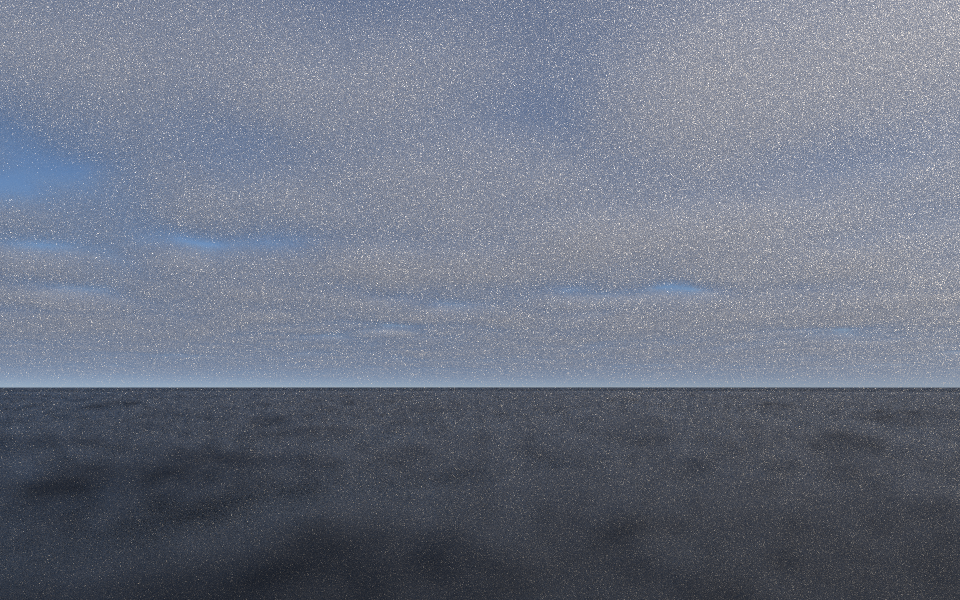
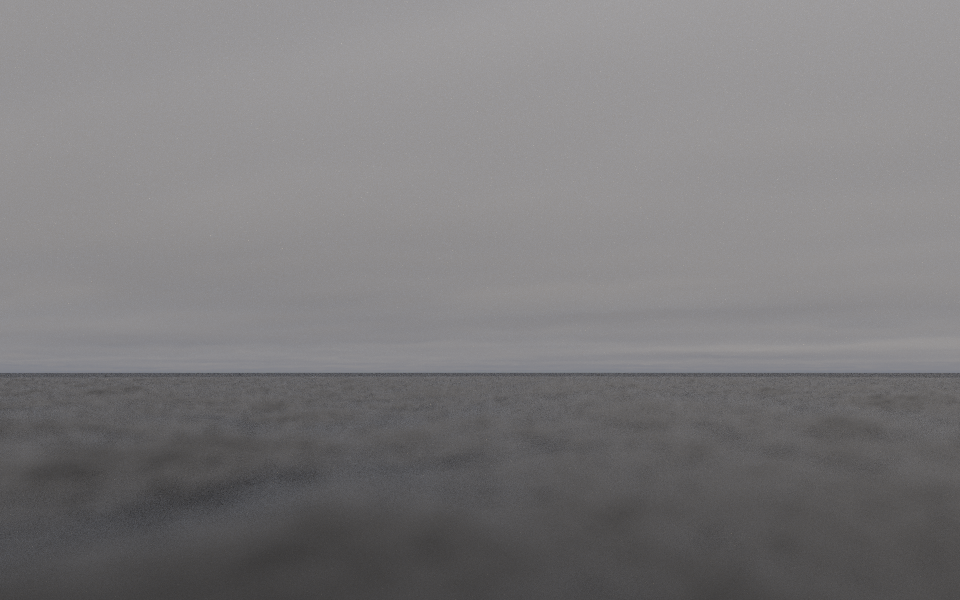
Cloud atlas: all ten genera, cumulonimbus and lightning
Add a table of the ten WMO genera and the scene for each, entries for
cumulonimbus and lightning, the new stratus and altostratus, and renders;
drop nimbostratus and cumulonimbus from what is missing.

Claude-Session: https://claude.ai/code/session_01U8ZZinkEy4uK9PmdkwJuJu

diff --git a/demo/cloud-atlas.md b/demo/cloud-atlas.md
@@ -10,23 +10,44 @@ Every cloud is a participating medium of the same kind (see `src/volume.rs`): de
 through a density field, lit by the sun and the sky, under the same atmosphere that reddens the
 sun and hazes the distance. Cloud layers curve with the planet's surface, so distant clouds drop
 towards the horizon and sink below it. What differs is where the density comes from. There are
-nine generators:
+ten generators:
 
 | Generator | Makes | Approach |
 |---|---|---|
 | `hogan_kew_cirrus` | cirrus, cirrostratus | Ice falling from generating cells in wind shear (Hogan & Kew 2005) |
 | `benard_altocumulus` | altocumulus, cirrocumulus | Rayleigh-Bénard convection cells in a thin layer |
-| `nubis_clouds` | cumulus, stratocumulus, stratus, altostratus | Noise-based modelling (Schneider, Horizon Zero Dawn's Nubis) |
+| `nubis_clouds` | cumulus, stratocumulus | Noise-based modelling (Schneider, Horizon Zero Dawn's Nubis) |
 | `harris_cumulus` | cumulus, as they grow and die | A simulation of a sunny day (Harris et al. 2003) |
 | `lenticular` | lenticular clouds | Moist layers lifted by a mountain's lee waves |
 | `mammatus` | mammatus under an anvil | Sinking, evaporating lobes under a cloud's base |
-| `overcast` | nimbostratus and stratocumulus overcast, scud | A deck lumpy underneath, lit by diffusion through each column |
+| `overcast` | nimbostratus, stratus, altostratus, stratocumulus overcast, scud | A deck lumpy underneath, lit by diffusion through each column |
+| `cumulonimbus` | cumulonimbus: towers, flanking line, anvil, overshooting top | Shaped by parcel theory: updraft from CAPE, overshoot w / N, anvil carried by the wind aloft |
 | `mountains` `"cloud"` | hill fog, cap clouds | Damp air lifted over high ground past its saturation, streaming off the crests |
 | `precipitation` | rain shafts and virga | Raindrops by rain rate (Marshall-Palmer), falling through shear |
 
+And `lightning`, which isn't a cloud but lights one: a branching channel grown as a stepped
+leader, glowing as bright as measured strokes, sampled as a light.
+
+### The ten genera
+
+The WMO's atlas sorts every cloud into ten genera. All ten have a scene:
+
+| Genus | Generator | Scene |
+|---|---|---|
+| Cirrus (Ci) | `hogan_kew_cirrus` | `hogan-kew-cirrus.json` |
+| Cirrocumulus (Cc) | `benard_altocumulus`, small and high | `cirrocumulus.json` |
+| Cirrostratus (Cs) | `hogan_kew_cirrus`, with halos | `cirrostratus-halos.json` |
+| Altocumulus (Ac) | `benard_altocumulus`, `lenticular` | `benard-altocumulus.json`, `altocumulus-undulatus.json`, `lenticular.json` |
+| Altostratus (As) | `overcast`, thin and smooth | `altostratus.json` |
+| Nimbostratus (Ns) | `overcast`, thick, with rain | `overcast.json` |
+| Stratocumulus (Sc) | `nubis_clouds` | `stratocumulus.json` |
+| Stratus (St) | `overcast`, low and even | `stratus.json` |
+| Cumulus (Cu) | `nubis_clouds`, `harris_cumulus` | `nubis-clouds.json`, `harris-cumulus.json` |
+| Cumulonimbus (Cb) | `cumulonimbus` | `cumulonimbus.json`, `lightning.json` |
+
 Render any of them with `cargo run --release -- demo/scenes/<scene>.json`. The scenes stand on the
-sea (`{"type": "ocean"}`, the planet's surface), whose reflections show the sky and clouds again. The altostratus, stratocumulus
-and stratus images are quick previews (480 x 300, 8 samples per pixel), so they are noisy.
+sea (`{"type": "ocean"}`, the planet's surface), whose reflections show the sky and clouds again. The stratocumulus
+image is a quick preview (480 x 300, 8 samples per pixel), so it is noisy.
 
 ### All together
 
@@ -53,10 +74,12 @@ glitter path running in to the camera.
 | | [Overcast: nimbostratus and scud](#overcast-nimbostratus-and-scud) | `overcast.json` |
 | | [Cumulus, modelled](#cumulus-modelled) | `nubis-clouds.json` |
 | | [Cumulus, simulated](#cumulus-simulated) | `harris-cumulus.json` |
+| | [Cumulonimbus](#cumulonimbus) | `cumulonimbus.json` |
 | Phenomena | [Sunset](#sunset) | `sunset.json` |
 | | [Crepuscular rays](#crepuscular-rays) | `crepuscular-rays.json` |
 | | [Rain and rainbows](#rain-and-rainbows) | `rain.json` |
 | | [Mammatus](#mammatus) | `mammatus.json` |
+| | [Lightning](#lightning) | `lightning.json` |
 | | [Iridescence](#iridescence) | `cirrus-iridescence.json` |
 | | [Clouds from orbit](#clouds-from-orbit) | `orbit.json` |
 
@@ -157,12 +180,15 @@ approximation (`"oz": true`). Without it, the render sparkles with noise.
 
 ![Altostratus](./scenes/altostratus.png)
 
-`altostratus.json`: `{"type": "nubis_clouds", "base": 3000, "top": 4500, "coverage": 1, "cloud_type": 0, "density": 0.003}`
+`altostratus.json`: `{"type": "overcast", "base": 3000, "thickness": 1500, "density": 0.0025, "contrast": 0.25, "anisotropy": 6, "diffusion": true}`
 
-A grey or bluish sheet through which the sun shows as if through ground glass. It is Nubis's
-stratus profile at middle height, optically thin (an optical depth of a few through the sheet).
-This is an approximation: real altostratus is a smooth, often fibrous sheet, while Nubis still
-shapes it from billowing noise.
+A grey or bluish sheet through which the sun shows as if through ground glass. It is the
+`overcast` deck at middle height, made smooth and thin: an optical depth of three to six,
+enough to hide the blue sky but not the sun, whose disc still shines through, dimmed, in a
+bright patch of forward-scattered light. Little `contrast` between thicker and thinner
+patches, and lumps drawn out six times along the wind (`anisotropy`), give the faint striations
+of altostratus rather than the lumpy underside of rain cloud. The thinner patches
+(`thickness_variation`) are where the sun shows best.
 
 ## Low clouds
 
@@ -182,9 +208,13 @@ from stratus (0) through stratocumulus (0.5) to cumulus (1).
 
 ![Stratus](./scenes/stratus.png)
 
-`stratus.json`: `{"type": "nubis_clouds", "base": 300, "top": 800, "coverage": 1, "cloud_type": 0}`
+`stratus.json`: `{"type": "overcast", "base": 350, "thickness": 500, "density": 0.03, "contrast": 0.15, "base_variation": 40, "diffusion": true}`
 
-A low, grey overcast: Nubis with the stratus profile and full coverage.
+A low, featureless grey sheet with an even base, hiding the sun completely: the dull sky of a
+damp, still day. It is the `overcast` deck brought down to a few hundred metres and made
+even: little `contrast` between thick and thin, a base that hardly varies, and a little scud.
+An optical depth of 15 to 20 diffuses the sunlight evenly, so the sky is one soft grey, a
+little brighter where the deck is thinner, its base lost in the haze at the horizon.
 
 ### Overcast: nimbostratus and scud
 
@@ -265,6 +295,39 @@ field that fills in, then clumps that break up as the ground's moisture flux fal
 
 At 100 m the grid resolves clouds down to a few hundred metres. Worley erosion adds finer detail
 at their edges.
+
+### Cumulonimbus
+
+![Cumulonimbus](./scenes/cumulonimbus.png)
+
+`cumulonimbus.json`: `{"type": "cumulonimbus", "base": 1300, "tropopause": 11500, "cape": 2500, "radius": 3800, "wind_direction": [1, 0.15], "upper_wind": 25, "age": 900, "flanking": 4, "oz": true}`
+
+The thunderstorm cloud: a cumulus grown through the whole troposphere, with a rain shaft under
+it. Its shape follows the physics of its updraft (`procedural::cumulonimbus`):
+
+- **The tower.** Air rising from the base is buoyant as long as it is warmer than its
+  surroundings, up to the equilibrium level, near the tropopause. Parcel theory gives the
+  strongest updraft from the convective available potential energy, w = sqrt(2 CAPE), about
+  half of it realised once entrainment and the water's weight are counted (`efficiency`).
+  The updraft overshoots the equilibrium level by about w / N into the stable stratosphere,
+  N its buoyancy frequency (`stability`, 0.02 s⁻¹): with CAPE 2500 J/kg, a dome some 1.8 km
+  above the anvil. The tower leans downwind (`lean`), its surface pushed out in turrets a
+  tower's width across, and those covered in cauliflower billows of billows.
+- **Glaciation.** Above about -38 °C (`glaciation`, 8 km) every drop freezes. The hard
+  billows of the liquid tower soften into streaks drawn out along the wind, and the
+  extinction falls from that of dense liquid cloud (`density`, 0.04 per metre) to ice's
+  (`ice_density`).
+- **The anvil.** At the tropopause the outflow spreads, carried downwind by the wind aloft
+  (`upper_wind` × `age`) and fanning out sideways at `outflow_speed`: a flat-topped wedge,
+  thickest at the tower, thinning towards its far edge, a little of it pushed upwind.
+- **The flanking line.** Younger towers stepping down away from the storm on the upwind side
+  (`flanking`, `flank_angle`): cumulus congestus that will feed it.
+
+Lit from the side, the turrets on the near side catch the sun, those beyond are in the
+tower's shadow. Light scattered many times inside a tower so dense would make the render
+noisy, so it uses the Oz approximation (`"oz": true`). Hail, wall clouds and the vault of a
+supercell's updraft are not modelled; mammatus under the anvil is a separate `mammatus` object
+(as in `sunset-squalls.json`).
 
 ## Phenomena
 
@@ -348,6 +411,51 @@ anvil's edge. Its light, reddened by its long path through the air, comes in und
 catches the sides of the nearest pouches, while the anvil overhead hides most of the sky. The
 scene uses Reinhard tone mapping with an exposure of 3, as a photograph at dusk would.
 
+### Lightning
+
+![Lightning](./scenes/lightning.png)
+
+`lightning.json`: `{"type": "lightning", "start": [1200, 4500, 10500], "target": [3200, 7200], "seed": 5}`, in
+the cumulonimbus at nautical dusk
+
+Two cloud-to-ground strokes caught in a one-second exposure at dusk. The bolts glow
+blue-white and light everything near them: the cloud base above, the rain the second one falls
+through, and the sea below, which reflects them. The storm is otherwise a silhouette against
+the last of the twilight.
+
+The channel is grown as a *stepped leader* (`procedural::lightning`). Leader tips push down
+from the cloud's charge region in steps of tens of metres (`step`), each turning by about 16°
+from the last, as measured in photographs of channels (Hill 1968), drawn down by the field and
+towards a `target`. Tips fork (`branching`) and die out (`dying`); when one comes within
+`striking_distance` of the ground, an upward leader meets it and the return stroke flows
+along that path, the main channel. Each straight step is then broken into a fractal path down
+to a couple of metres (`detail`, `roughness`), so the channel is jagged at every scale. The
+branches that lost the race carry only the charge stored along them, so each glows in
+proportion to the length of channel beyond it, fading towards its tips. Inside the cloud the
+flash spreads sideways in a fainter network (`cloud_length`); `"kind": "intracloud"` gives that
+network alone, sheet lightning.
+
+It is as bright as the real thing. A return stroke radiates a few hundred joules per metre in
+the visible and near infrared (Krider et al. 1968), about 1.5·10⁴ lumen-seconds per metre
+(`luminous_energy`); averaged over `strokes` strokes and the `shutter` time, that is the light
+per metre of channel, on the same scale as the sun (whose intensity, 4.9 here, it follows). A
+metre or so from the channel it is far brighter than daylight; a kilometre away it gives a few
+lux, tens of times full moonlight. So the scene is exposed as a night photograph would be
+(`"exposure": 500`), the channel itself blown out, with glare. Its colour is a blackbody at
+25 000 K, near the channel's temperature, an approximation to its spectrum of nitrogen, oxygen
+and hydrogen lines.
+
+The channel is a light, sampled directly: a light BVH over its segments chooses one by the
+light it could send to the point being lit, then a point on the side facing it. Seen from
+kilometres away a channel a few centimetres across is far thinner than a pixel, and most
+samples would miss it; what a camera records of it there is its light per metre, so each
+segment is widened to half a pixel as seen from the camera, its radiance lowered to keep its
+light per metre (`pixel_width`). The channel casts no shadow.
+
+Light from a channel deep inside a dense cloud reaches the camera only after many
+scatterings, which a path tracer finds by chance, so the glow of lightning inside a cloud is
+noisy; flashes under the cloud base or the anvil, or in rain, are lit cleanly.
+
 ### Iridescence
 
 ![Iridescence](./scenes/cirrus-iridescence.png)
@@ -374,10 +482,12 @@ is still noisy: from orbit, cloud detail is much smaller than a pixel.
 
 ## Not yet
 
-- **Nimbostratus**: a thick, dark rain cloud. `precipitation` can now fall from a thick
-  `nubis_clouds` stratus, but there is no scene for it yet.
-- **Cumulonimbus**: anvils and overshooting tops. `harris_cumulus` could grow them with a deeper
-  grid, a weaker inversion and ice microphysics.
+- **Lightning inside dense cloud**: in-cloud flashes light the cloud only through many
+  scatterings, which are noisy to trace; a diffusion approximation for light from inside a
+  cloud (as `"diffusion"` gives for sunlight) would light it cleanly.
+- **Cumulonimbus by simulation**: `harris_cumulus` could grow one, with a deeper grid, a weaker
+  inversion and ice microphysics; the `cumulonimbus` generator shapes it from parcel theory
+  instead.
 - **Castellanus, fractus and other species**: each needs its own mechanism (turrets from
   mid-level convection, shreds torn by the wind).
-- **Snow, hail and lightning**; supernumerary bows (they need wave optics) and fogbows.
+- **Snow and hail**; supernumerary bows (they need wave optics) and fogbows.

diff --git a/CLAUDE.md b/CLAUDE.md
@@ -10,8 +10,9 @@ Rays.rust is a raytracer written in Rust with the following features:
 - The rest of the universe (`"background": {"type": "space"}`, `src/procedural/space/`, docs/space.md): procedural stars (luminosity function, black-body colours), the Milky Way's glow and dust lanes, emission, reflection, planetary and dark nebulae, and spiral and elliptical galaxies; physically bright (magnitudes against the sun's, so it takes a night exposure, `"output": {"exposure": ...}`) unless `brightness` scales it; seen through a skysphere's air by its transmittance, and skipped where the sky outshines it (`threshold`) (`demo/scenes/deep-space.json`, `night-orbit.json`)
 - Moons (`"moon"`, `src/celestial/`, docs/moon.md): real spheres at their true distance (placed by `direction`, a Keplerian `orbit` or `position`; tidally locked, with libration) with a seeded cratered surface (Pike's crater shapes, saturated crater populations, basins, near-side maria, rays; relief shadows near the terminator) reflecting the sun by Hapke's model fitted to the Moon's phase curve (so physically bright), lit by earthshine and eclipsed by the planet; its reflected light lights the scene and the night sky (`Moonlight`, `Scene::moonlight`, sampled like the sun via `Scene::directional_lights`); `demo/scenes/moon.json`, `moonrise.json`, `moon-daytime.json`, `moon-crescent.json`
 - Planets (docs/planets.md, `src/celestial/`): gas and ice giants (`"gas_giant"`: Jupiter, Saturn, Uranus, Neptune presets or seeded; oblate spheroids, `shape.rs`; cloud bands grown from the jets' shear and the clouds advected by jets, turbulence and vortices, `bands.rs`; Hapke cloud-deck photometry calibrated to geometric albedo, `giant.rs`; moons' shadows on them), rings (`rings.rs`: optical-depth profiles, Saturn's measured, seeded ones with resonance gaps; single scattering lit/unlit faces, transmission, shadows both ways, filtered τ), rocky and icy worlds as `moon` presets (`terrain.rs`: mercury, mars, callisto, ganymede, europa, io, seeded rocky/icy), and `"world"`: any of these from one seed (`celestial::world_object`); `demo/scenes/saturn.json`, `saturn-shadows.json`, `jupiter.json`, `ice-giants.json`, `worlds.json`, `worlds-from-seeds.json`
+- Lightning (`"lightning"`, `src/procedural/lightning.rs`): a channel grown as a stepped leader (16° tortuosity, branching, the race to the ground decides the main channel; fractal detail by midpoint displacement; branches glow by the channel beyond them), cloud-to-ground or intracloud; physically bright (lumen-seconds per metre per stroke over the `shutter`, on the sun's scale, `SceneFile::lightning_follows_sun`); an emitter sampled segment by segment through its own light BVH (`Channel::sample_from`), widened to half a pixel from the camera keeping its light per metre, casting no shadow; `demo/scenes/lightning.json`
 - Directional sun light (`"sun"`), sampled directly; follows the skysphere's sun and is reddened by its atmosphere
-- Procedural objects including Ocean (Tessendorf's algorithm with Phillips spectrum; the planet's surface by default, or a plane with `"planet_radius": 0`: displaced near the camera, physically lit, with sun glitter and slopes calibrated to Cox and Munk) and volumetric clouds: cumulus to stratus (`"nubis_clouds"`, after Horizon Zero Dawn's Nubis) and cirrus with fallstreaks (`"hogan_kew_cirrus"`, after Hogan and Kew), altocumulus as convection cells (`"benard_altocumulus"`: Rayleigh-Bénard cells, rows, undulatus waves), lenticular clouds over a mountain's lee waves (`"lenticular"`: stacked plates from moist layers), mammatus under an anvil (`"mammatus"`), the overcast of bad weather (`"overcast"`, `src/procedural/overcast.rs`: a nimbostratus deck kilometres thick whose underside hangs in lumps along the wind, with scud below; lit through `"diffusion": true`), rain shafts and virga (`"precipitation"`: Marshall-Palmer extinction by rain rate, shear, evaporation), and cumulus grown by simulating a sunny day (`"harris_cumulus"`: stable fluids with buoyancy, condensation, latent heat and subgrid turbulence, through the ARM shallow-cumulus case's day; cached so `scripts/animate.py` can render it boiling and dissipating)
+- Procedural objects including Ocean (Tessendorf's algorithm with Phillips spectrum; the planet's surface by default, or a plane with `"planet_radius": 0`: displaced near the camera, physically lit, with sun glitter and slopes calibrated to Cox and Munk) and volumetric clouds: cumulus to stratus (`"nubis_clouds"`, after Horizon Zero Dawn's Nubis) and cirrus with fallstreaks (`"hogan_kew_cirrus"`, after Hogan and Kew), altocumulus as convection cells (`"benard_altocumulus"`: Rayleigh-Bénard cells, rows, undulatus waves), lenticular clouds over a mountain's lee waves (`"lenticular"`: stacked plates from moist layers), mammatus under an anvil (`"mammatus"`), cumulonimbus (`"cumulonimbus"`, `src/procedural/cumulonimbus.rs`: a tower shaped by parcel theory, its overshooting top w / N from CAPE, glaciating above `glaciation`, a flanking line, and an anvil carried by the wind aloft), the overcast of bad weather (`"overcast"`, `src/procedural/overcast.rs`: a nimbostratus deck kilometres thick whose underside hangs in lumps along the wind, with scud below; lit through `"diffusion": true`), rain shafts and virga (`"precipitation"`: Marshall-Palmer extinction by rain rate, shear, evaporation), and cumulus grown by simulating a sunny day (`"harris_cumulus"`: stable fluids with buoyancy, condensation, latent heat and subgrid turbulence, through the ARM shallow-cumulus case's day; cached so `scripts/animate.py` can render it boiling and dissipating)
 - Procedural trees and bushes (Weber and Penn's parametric model, `src/procedural/tree.rs`; bushes: shrub, hazel, hawthorn, juniper; desert: creosote-bush, joshua-tree, utah-juniper), and desert plants grown as tree species with a `form` (`src/procedural/succulent.rs`: saguaro, barrel-cactus, prickly-pear, agave, ocotillo, and `mound` shrubs sagebrush and rabbitbrush; body as "bark", spines as "leaves"; `demo/scenes/desert-plants.json`), forests of instanced
   trees (`src/procedural/forest.rs`; `"lod"` sees each tree at a level of detail for its pixel size, `src/shapes/lod.rs`, docs/adaptive-meshes.md: bark simplified by vertex clustering, leaves consolidated into cards that keep their leaves' normals and faces, each hit shaded as one leaf chosen by visible area; compact `CardSet`s and `forest::Placed` instances, trees grown one at a time; `demo/scenes/forest-aerial.json`), and rocks (`bedrock`, `boulder`, `pebbles` objects; `rock` material)
 - Landscapes evolved through time (`"landscape"`, `src/terrain/`: uplift, rivers, glaciers, volcanoes, meanders) on a planet shaped by plate tectonics (`src/terrain/tectonics.rs`: rigid plates on Euler poles, ridges and ocean floor deepening with age, subduction arcs and trenches, continental collision and suturing, rifting, hotspots) and a climate powered by latitude (`src/terrain/climate.rs`: insolation from axial tilt, an energy balance model for temperature, Hadley/Ferrel/polar cells for winds and rain, moisture carried inland with rain shadows, Köppen-style biomes; sets glaciers' snowlines and the ground cover; `"climate_map"` writes a biome map); without `"scale"` drawn at full scale over the whole planet (`src/terrain/scenery.rs`: a whole-planet simulation with patches nested about the camera, each driven by the one around it; a geometry clipmap finest under the camera; ground cover from the simulations and climate; `demo/scenes/landscape.json`, `landscape-orbit.json`, `"planet_map"` writes a world map), evolved terrain cached by `"cache"`

diff --git a/README.md b/README.md
@@ -7,7 +7,7 @@
 
 [See full gallery of test scenes](./demo/scenes.md)
 
-[See the cloud atlas](./demo/cloud-atlas.md): every kind of cloud it can render, with a scene for each.
+[See the cloud atlas](./demo/cloud-atlas.md): every kind of cloud it can render, all ten genera, and lightning, with a scene for each.
 
 A raytracer written in rust.
 
